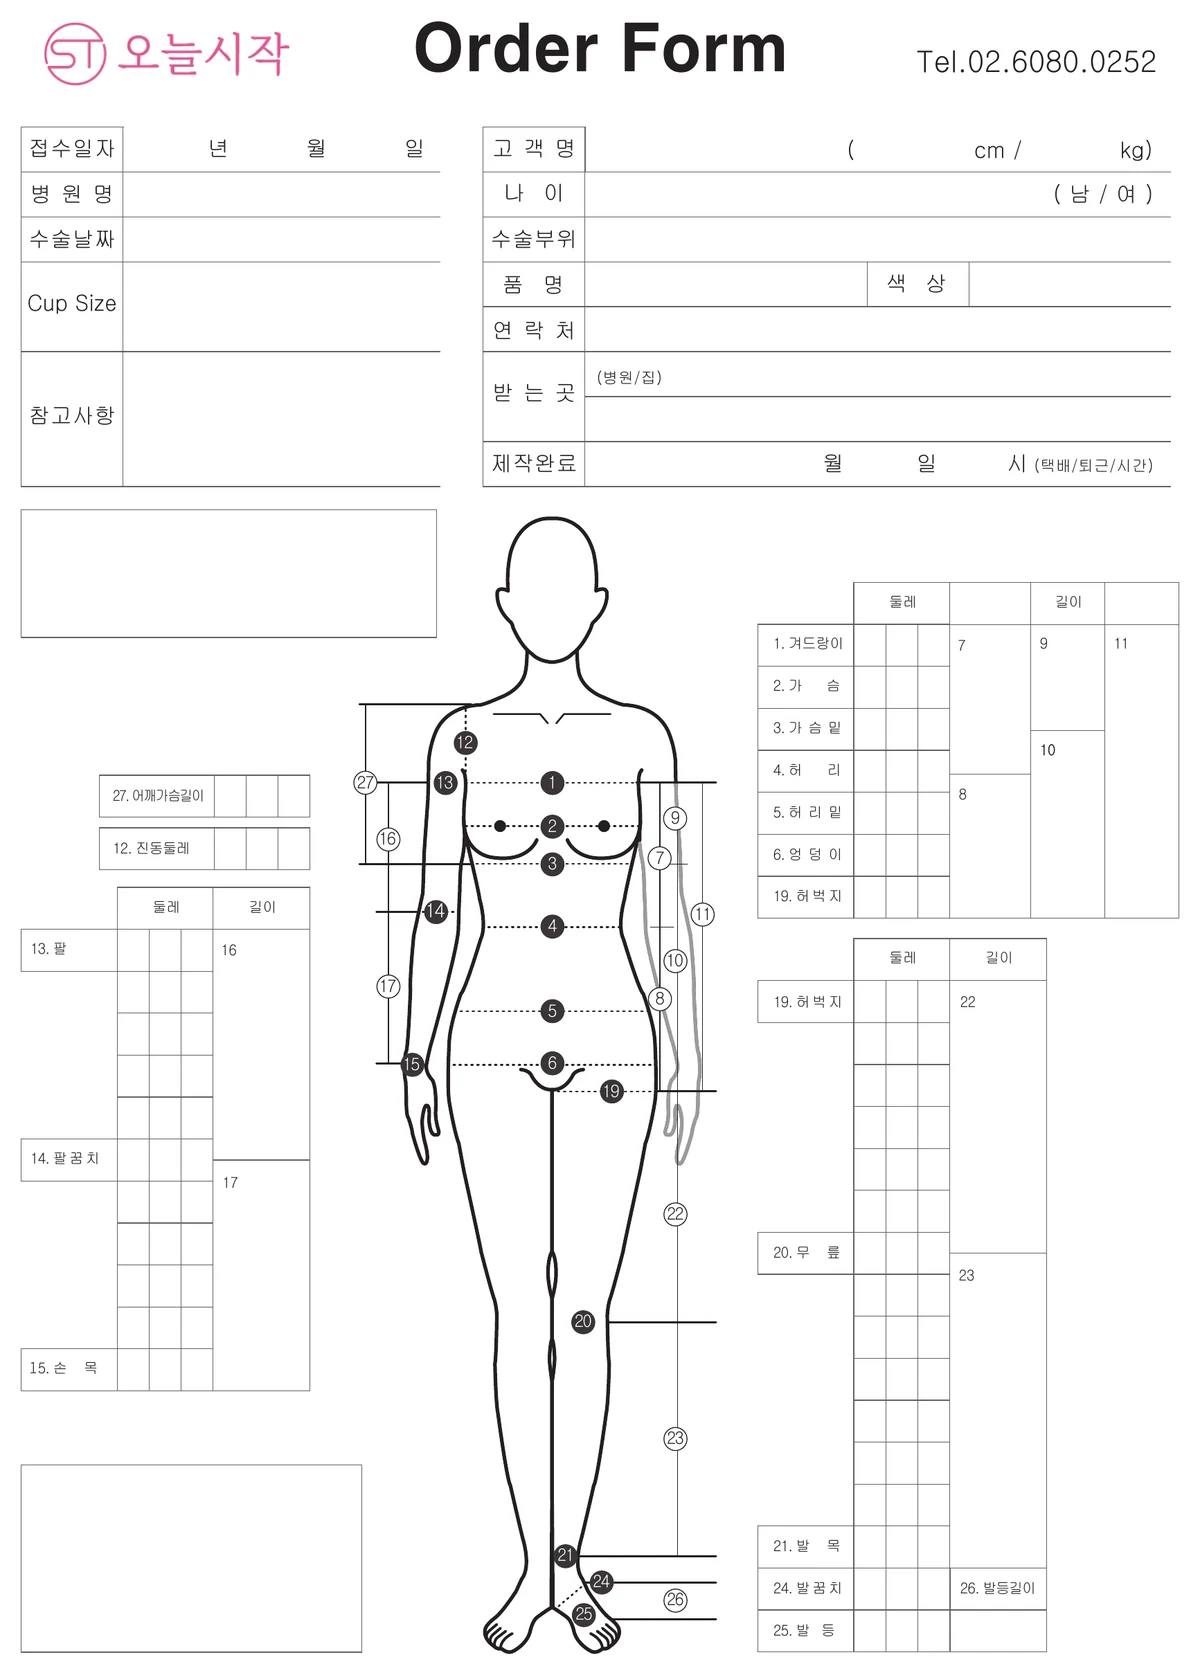
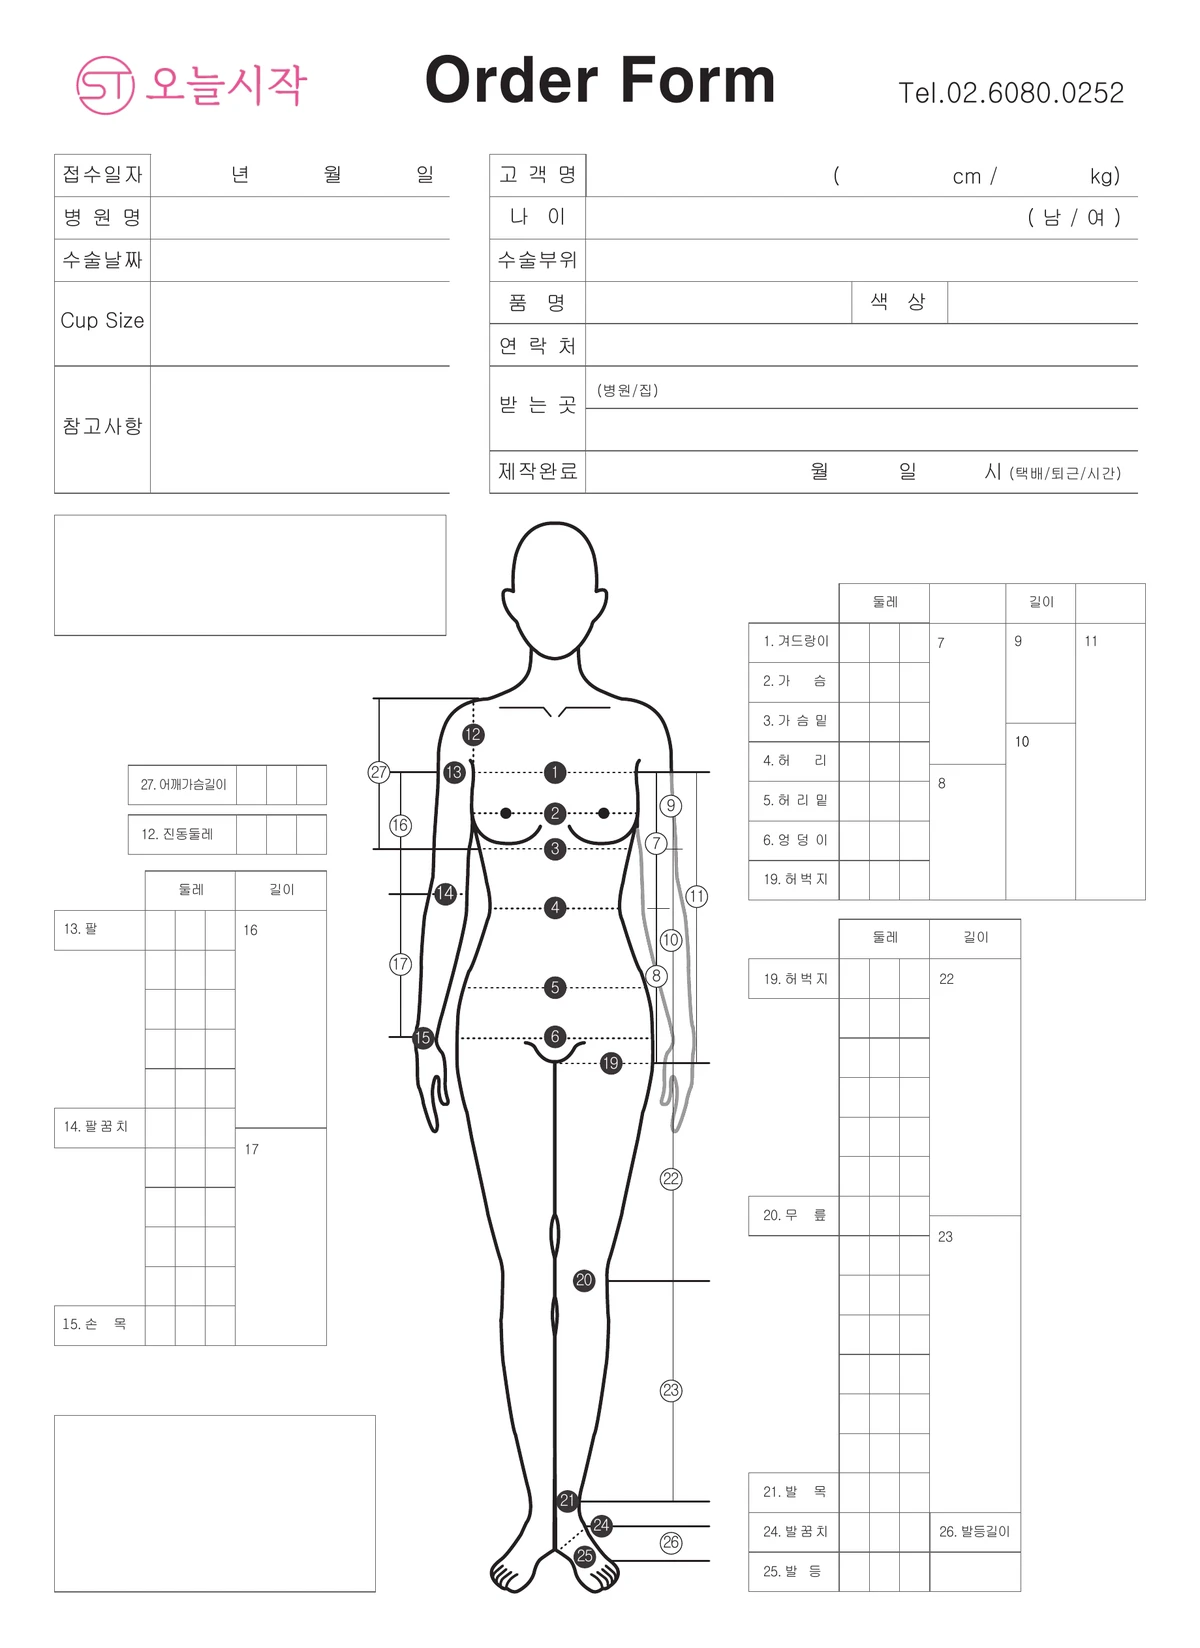
측정표 이미지 여백 추가(테두리에 붙지 않게), 모바일에서 화면 폭 가득 표시, '크게 보기' 고해상도 링크 추가
Claude-Session: https://claude.ai/code/session_01QdshiGuixLabDb3vpZXRXT

diff --git a/assets/css/site.css b/assets/css/site.css
@@ -744,10 +744,19 @@ body{ padding-bottom:calc(var(--control-h) + env(safe-area-inset-bottom,0px)); }
 .fs-prep__inner > *{ min-width:0; } .fs-contact a{ overflow-wrap:anywhere; } @media (max-width:399px){ .fs-prep__card{ padding:var(--space-4); } }
 
 /* 매장 측정표(빈 양식) */
-.fs-measure__form{ margin:0; display:grid; gap:var(--space-2); }
+.fs-measure__form{ margin:0; display:grid; gap:var(--space-2); min-width:0; }
+.fs-measure__zoom{ display:block; }
 .fs-measure__form img{ display:block; width:100%; height:auto; border:var(--border) solid var(--color-line); border-radius:var(--radius-sm); background:#FFFFFF; }
-.fs-measure__form figcaption{ font-size:var(--text-1); color:var(--color-muted); }
+.fs-measure__form figcaption{ display:flex; justify-content:space-between; align-items:center; gap:var(--space-3); font-size:var(--text-1); color:var(--color-muted); }
+.fs-measure__zoomlink{ font-weight:700; color:var(--color-accent); text-decoration:none; white-space:nowrap; padding:var(--space-2) 0; }
+.fs-measure__zoomlink:focus-visible{ outline:none; box-shadow:var(--focus-ring); }
 .fs-measure__copy p + p{ margin-top:0; }
+/* 모바일: 측정표를 칸 여백 없이 화면 폭 가득 */
+@media (max-width:719px){
+  .fs-measure__form{ margin-left:calc((var(--space-4) + var(--gutter-l)) * -1); margin-right:calc((var(--space-4) + var(--gutter-r)) * -1); }
+  .fs-measure__form img{ border-radius:0; border-inline:0; }
+  .fs-measure__form figcaption{ padding-left:calc(var(--space-4) + var(--gutter-l)); padding-right:calc(var(--space-4) + var(--gutter-r)); }
+}
 @media (min-width:720px){ .fs-measure{ grid-template-columns:1fr 1fr; gap:var(--space-5); align-items:start; } }
 /* ===== FAQ ===== */
 .faq-head{ background:var(--color-surface); border-bottom:var(--border) solid var(--color-line); padding-block:var(--space-5) var(--space-6); padding-inline:var(--gutter-l) var(--gutter-r); }

diff --git a/fitting-store/index.html b/fitting-store/index.html
@@ -125,8 +125,8 @@ var p=location.pathname.replace(/index\.html$/,'');h.querySelectorAll('.nav__lin
         <a class="fs-measure__link" href="/size-guide/">혼자 재 보는 12곳(표준 사이즈용) 보기 →</a>
       </div>
       <figure class="fs-measure__form">
-        <a href="/assets/img/order-form.webp" target="_blank" rel="noopener"><img src="/assets/img/order-form.webp" alt="오늘시작 압박복 측정표 빈 양식. 사람 몸 그림에 1번 겨드랑이부터 27번 어깨가슴길이까지 번호가 표시되어 있고, 팔·허벅지·무릎·발목 둘레를 구간별로 적는 칸과 몸통·팔·다리 길이를 적는 칸이 있다" width="1200" height="1675" loading="lazy"></a>
-        <figcaption>매장 측정표(빈 양식) · 누르면 크게 볼 수 있습니다</figcaption>
+        <a class="fs-measure__zoom" href="/assets/img/order-form-large.webp" target="_blank" rel="noopener"><img src="/assets/img/order-form.webp" alt="오늘시작 압박복 측정표 빈 양식. 사람 몸 그림에 1번 겨드랑이부터 27번 어깨가슴길이까지 번호가 표시되어 있고, 팔·허벅지·무릎·발목 둘레를 구간별로 적는 칸과 몸통·팔·다리 길이를 적는 칸이 있다" width="1200" height="1648" loading="lazy"></a>
+        <figcaption><span>매장 측정표(빈 양식)</span><a class="fs-measure__zoomlink" href="/assets/img/order-form-large.webp" target="_blank" rel="noopener">크게 보기 ↗</a></figcaption>
       </figure>
     </div>
     <p class="fs-note">착용 시작 시기와 단계별 제품 전환은 담당 의료진 안내를 우선합니다. 매장에서는 사이즈와 착용감만 확인해 드립니다.</p>
